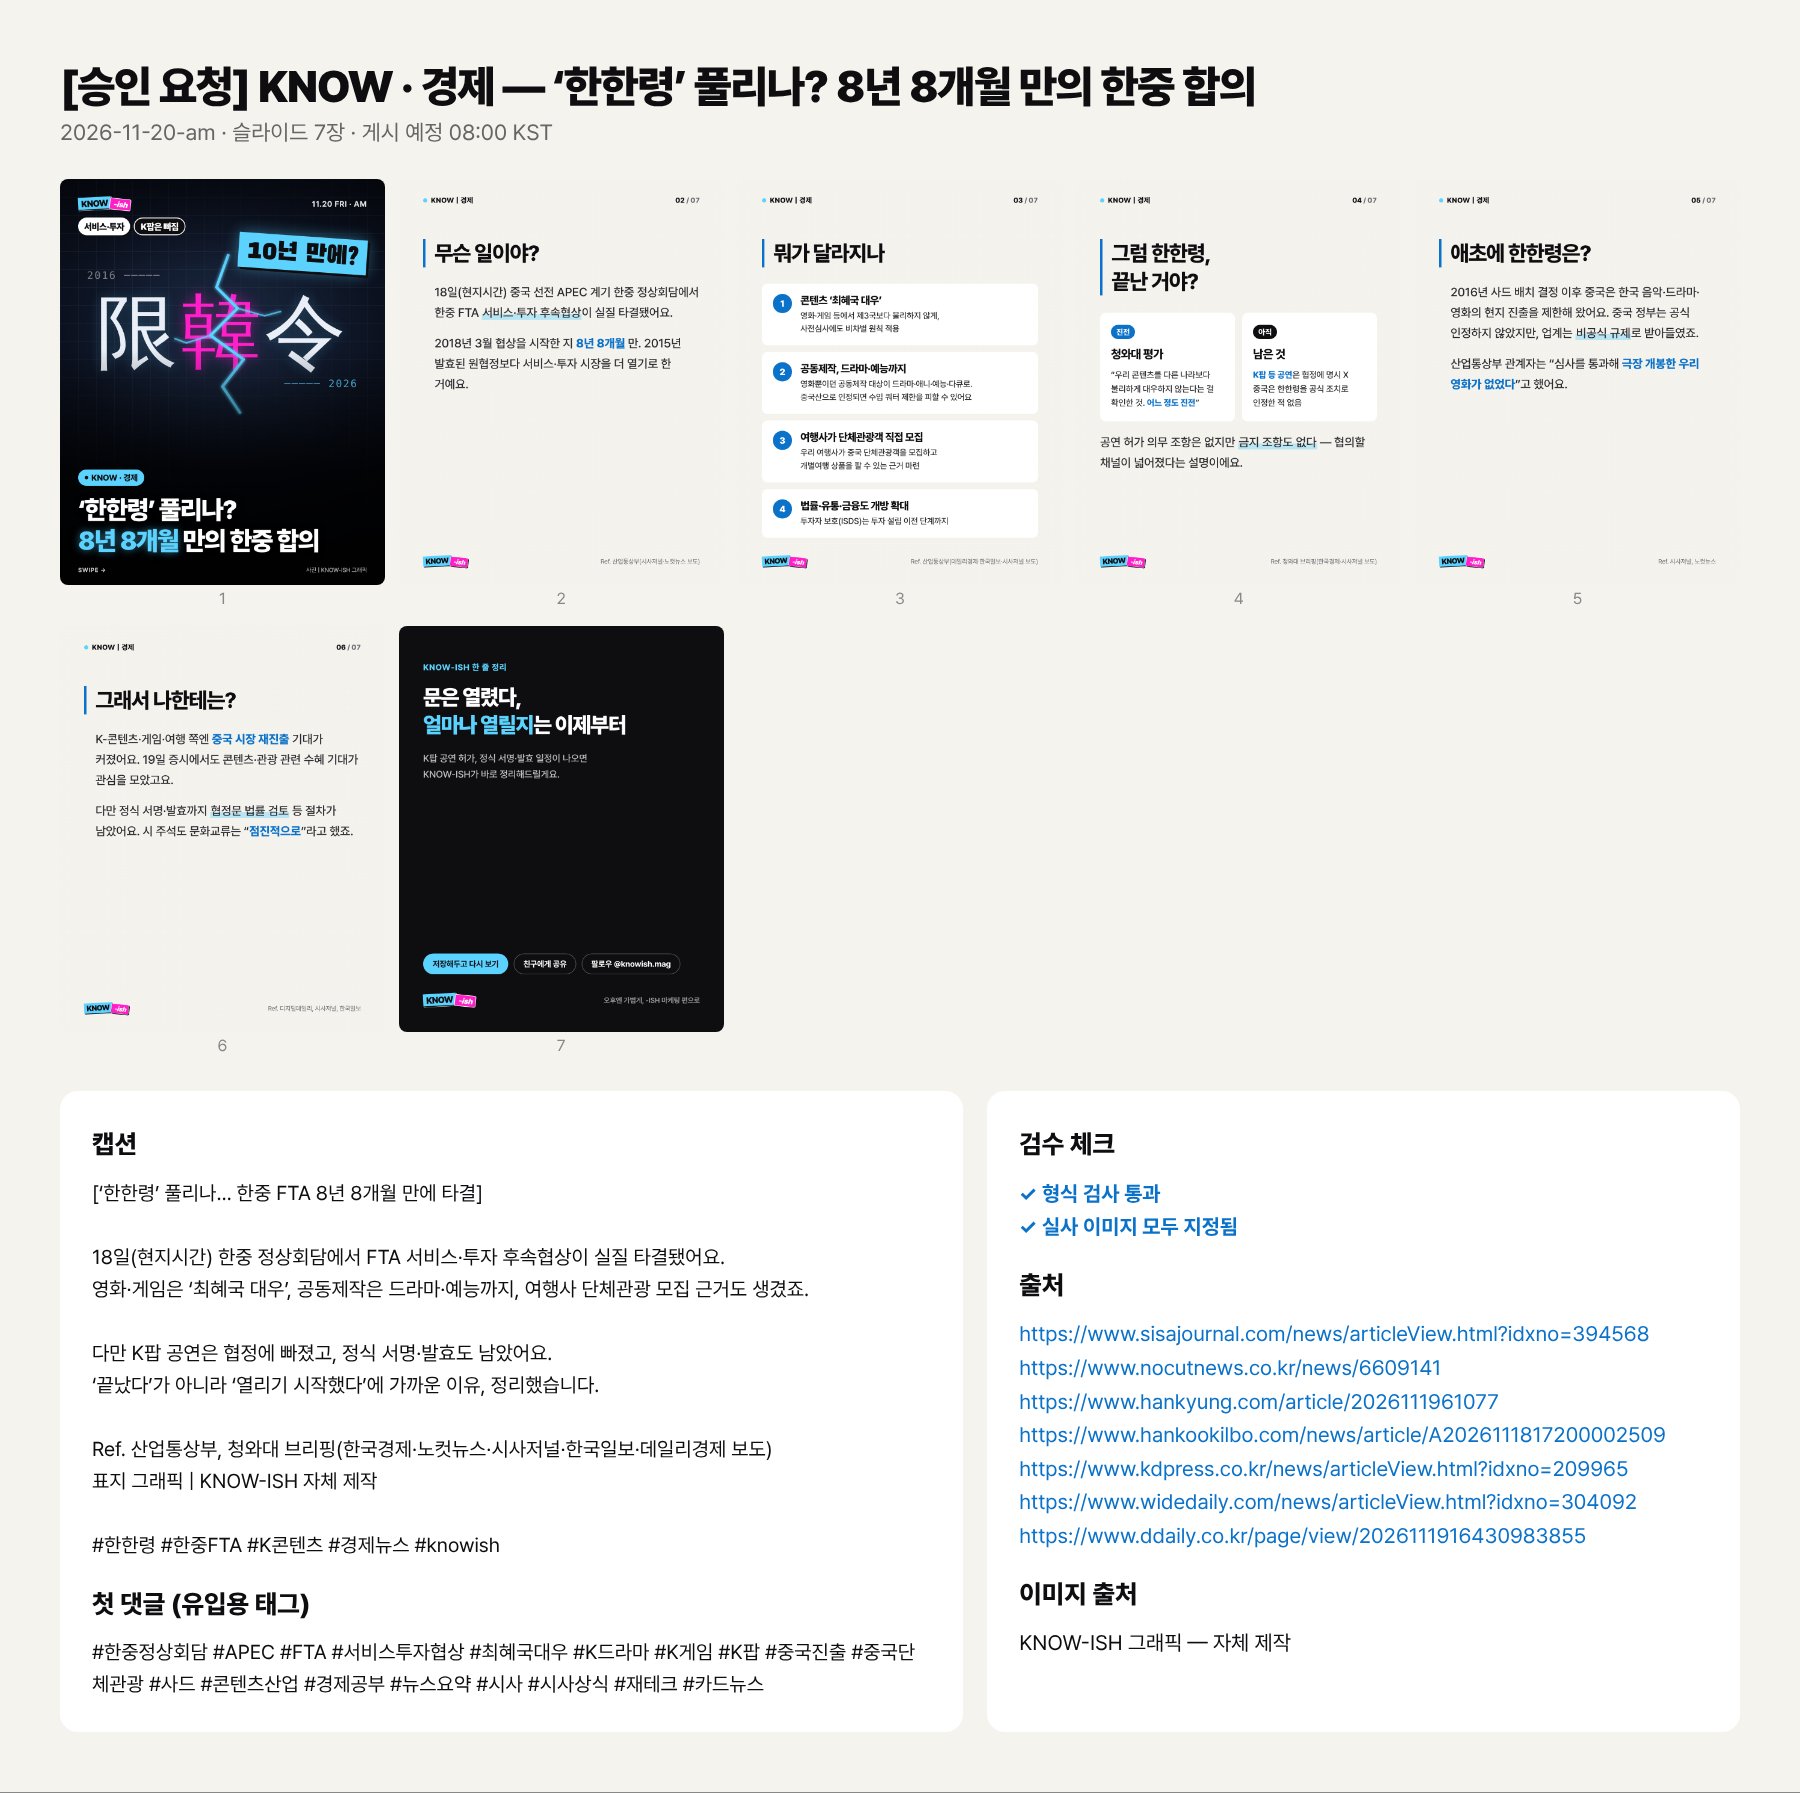
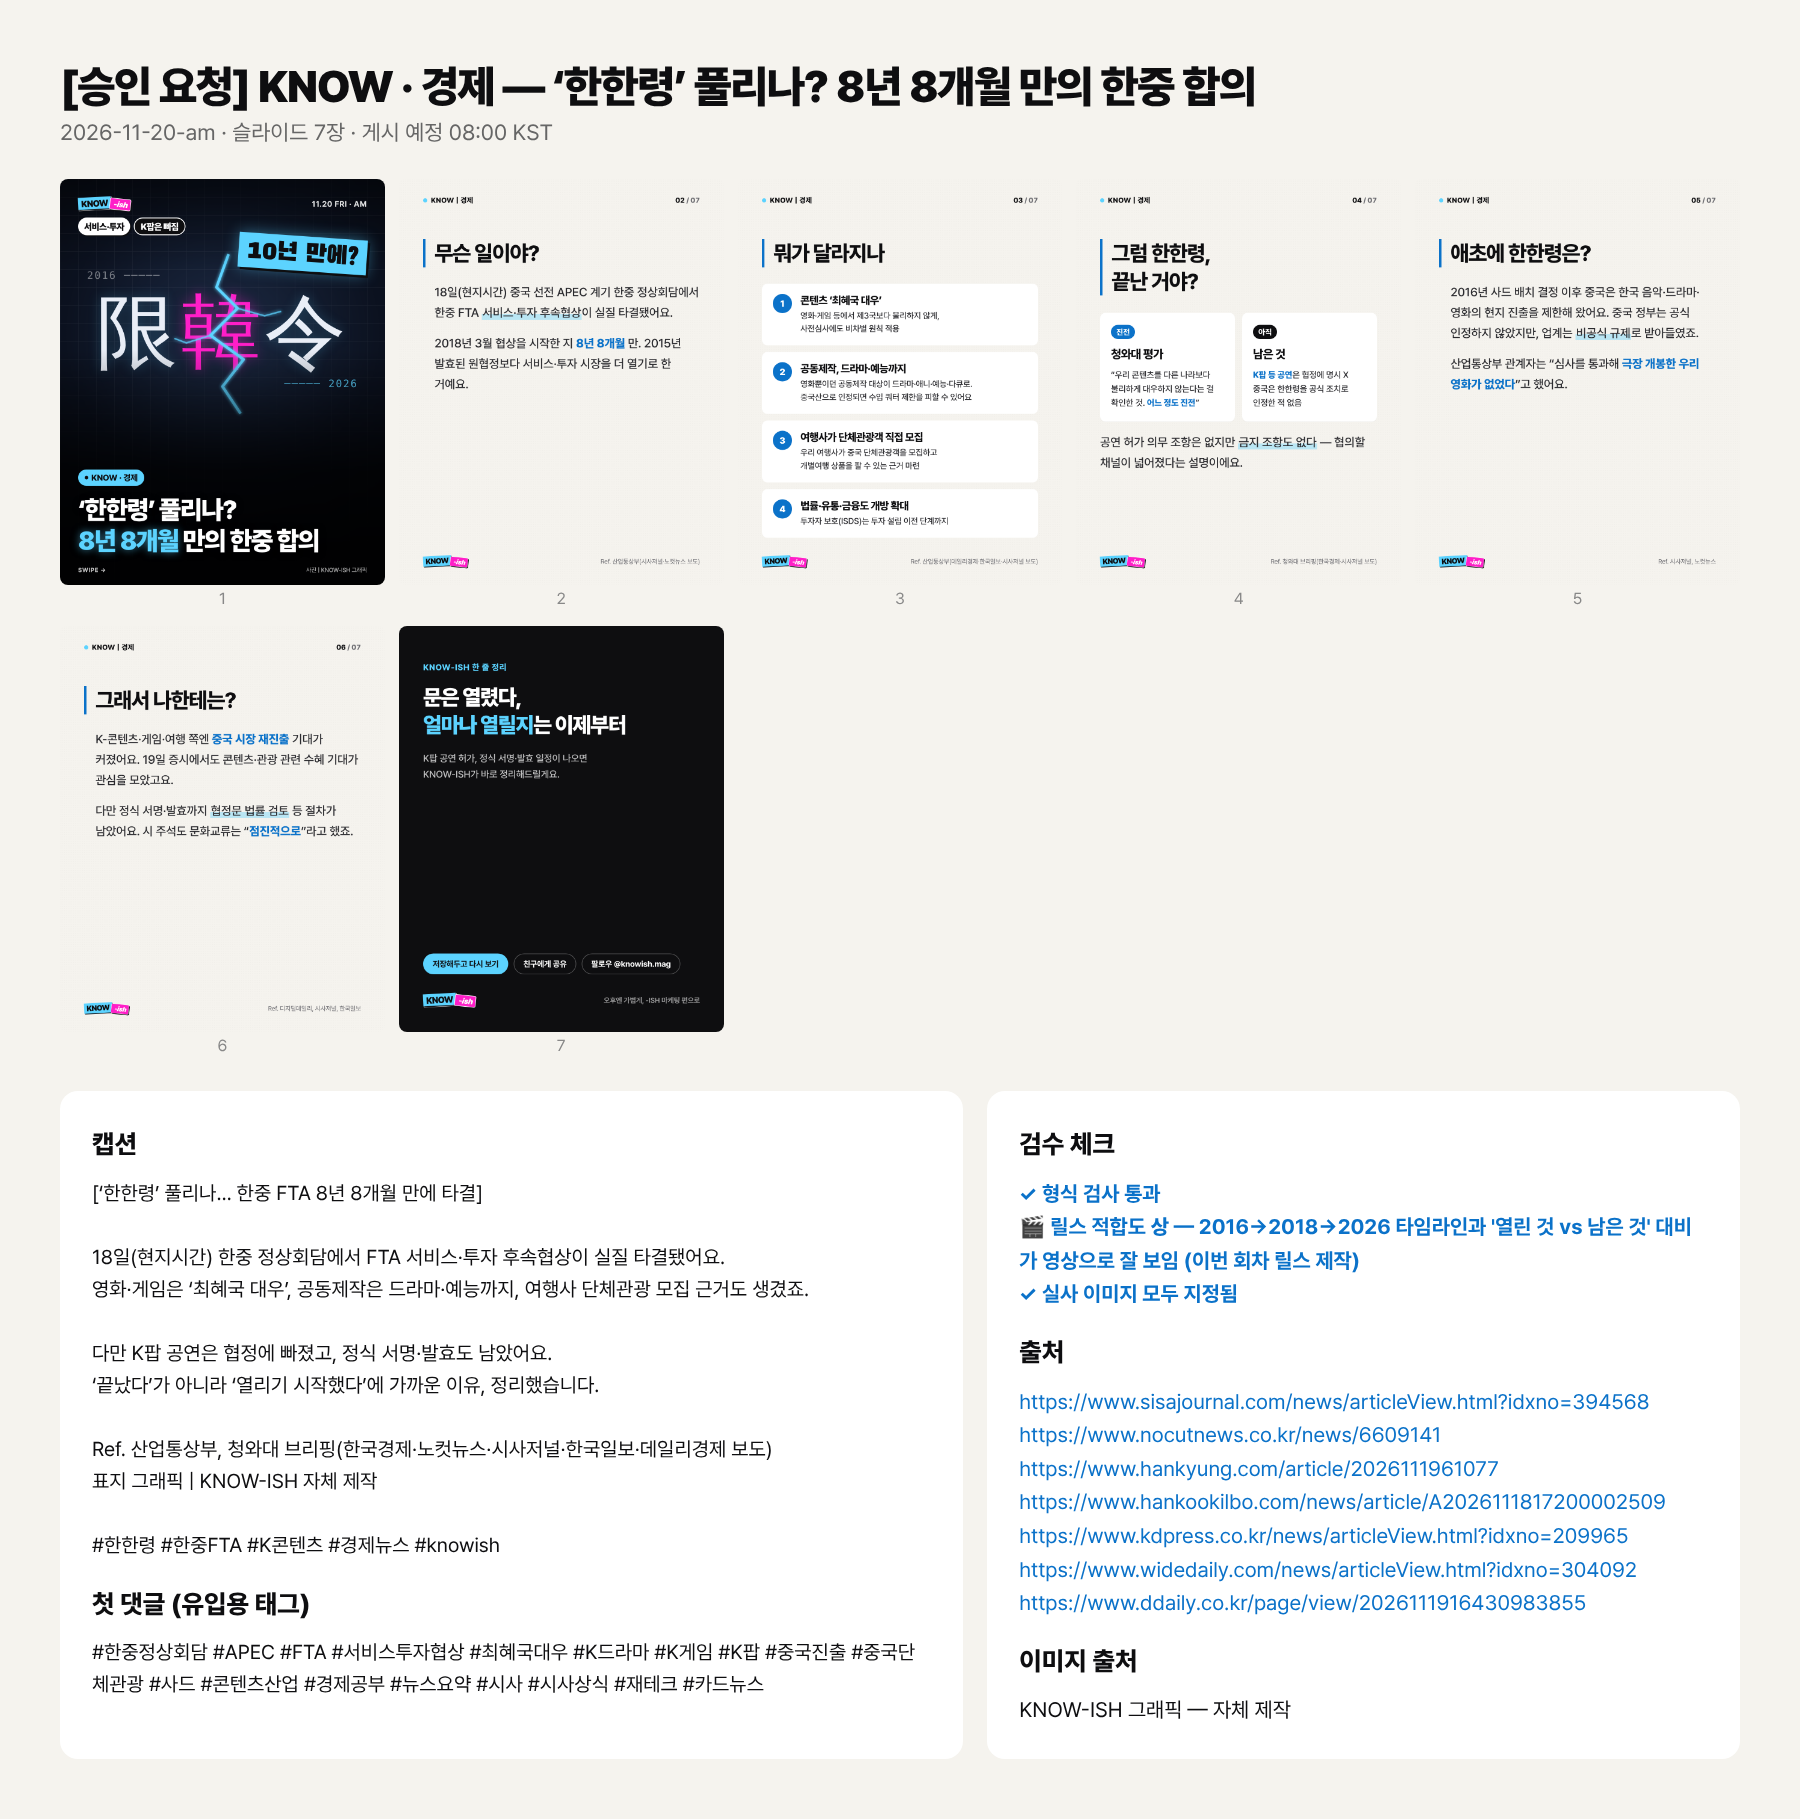
릴스 하루 1개 규칙: 적합도(상/중/하) 판단, 오전 상일 때·아니면 오후 제작, 그리드 숨김·시간 분리 안내, 캡션 연결 문구
Claude-Session: https://claude.ai/code/session_019qCDgtKUUxWTJuWU3cPXKC

diff --git a/onoff/AUTOMATION.md b/onoff/AUTOMATION.md
@@ -112,10 +112,30 @@ node src/build.mjs posts/<id>
 - 출력의 `problems` 가 비어 있지 않으면 원고를 고치고 다시 빌드한다(이미지 미지정은 예외).
 - `review.png` 를 직접 열어 보고, 글자 넘침·겹침·오타가 있으면 고친다.
 
+## 5-1. 릴스 (하루 1개)
+릴스는 **하루에 한 회차만** 만든다. 카드뉴스는 매 회차 그대로.
+
+1. **적합도 판단** — 매 회차 `content.json` 에 넣는다:
+   `"reel": {"fit": "상|중|하", "why": "한 줄 이유", "make": true|false}`
+   - 상: 숫자·차트·타임라인·반전·비교처럼 **움직임으로 보여주기 좋은** 주제
+   - 중: 사진·말풍선으로 풀 수 있는 주제
+   - 하: 설명·인용 위주라 영상 이점이 적은 주제
+2. **누가 만드나**
+   - 오전(KNOW): fit 이 **상**이면 만든다(`make: true`). 아니면 오후로 넘긴다.
+   - 오후(-ISH): 같은 날 오전 게시물(`posts/<오늘>-am`)에 릴스가 없으면 fit 이 상·중일 때 만든다. 하면 건너뛰고 이유를 알린다.
+   - 사용자가 "릴스도"/"릴스는 빼고"라고 하면 그대로.
+3. **만들기** — `reels/<게시물 id>/reel.mjs` 를 쓴다. 기준 예시: `reels/2026-11-20-am/reel.mjs`(타임라인·카드형), `reels/2026-11-19-kospi/reel.mjs`(차트형).
+   - 1080×1920, 15~21초, 장면 4~5개: 훅(표지 문구·칩·스티커) → 핵심 시각화(차트/타임라인/사진) → 이유·내용 → 반전·남은 것 → 한 줄 정리.
+   - 숫자·사실은 카드뉴스 `sources` 와 같은 것만. 근사치로 그린 그림(예: 세 지점을 이은 흐름도)은 화면에 그렇다고 적는다.
+   - 중요한 글자는 y 260~1500 안에(아래쪽은 인스타 캡션에 가림). 무음(음악은 사용자가 앱에서).
+   - 렌더: `node src/reel-render.mjs reels/<id>/reel.mjs 30` → `reel.mp4`, `poster.png`. 프레임 몇 장을 뽑아 직접 확인.
+   - `reels/<id>/caption.txt` = 카드뉴스 캡션 + 첫 줄 아래에 `📌 자세한 내용은 프로필 카드뉴스에서` 한 줄. `comment.txt` = 카드뉴스 commentTags + `#릴스`.
+4. **업로드 안내** (승인 후 패키지와 함께): 카드뉴스와 **시간을 나눠** 올린다(오전 회차 릴스 12:30, 오후 회차 릴스 21:00), 업로드 시 **"프로필 그리드에 표시" 끄기**(릴스 탭에만), 음악 추가, 커버는 poster.png.
+
 ## 6. 저장 & 승인 요청
 1. 이 세션의 작업 브랜치에 `onoff/posts/<id>/` 를 커밋하고 push 한다.
 2. 사용자에게 `review.png`, 표지(`slides/01.png`)를 보내고(SendUserFile, status `proactive`), 푸시 알림을 보낸다.
-3. 메시지: 주제 한 줄, 왜 골랐는지 한 줄, 확인이 필요한 점(이미지 미지정, 애매한 수치 등). 끝에 **"승인 / 수정할 내용"** 을 묻는다.
+3. 메시지: 주제 한 줄, 왜 골랐는지 한 줄, **릴스 적합도(상/중/하)와 이번 회차 릴스 제작 여부**, 확인이 필요한 점(이미지 미지정, 애매한 수치 등). 릴스를 만들었으면 `reel.mp4` 도 같이 보낸다. 끝에 **"승인 / 수정할 내용"** 을 묻는다.
 4. **승인 전에는 절대 게시하지 않는다.**
 
 ## 7. 승인 후 게시

diff --git a/.claude/skills/knowish/SKILL.md b/.claude/skills/knowish/SKILL.md
@@ -37,9 +37,13 @@ argument-hint: <주제나 링크> [KNOW|-ISH] [장수] [톤·요청사항]
 3. `node src/build.mjs posts/<id>` → `problems` 0개가 될 때까지 고친다.
 4. `review.png` 와 슬라이드를 직접 보고 글자 넘침·겹침·오타를 고친다.
 
+## 3-1. 릴스
+- 런북 '5-1. 릴스' 기준으로 적합도(상/중/하)를 매기고 `content.json` 의 `reel` 에 적는다.
+- 요청형은 사용자가 "릴스도" 라고 하거나 적합도가 **상**이면 만든다(오늘 정기 회차 릴스가 이미 있으면 먼저 물어본다).
+
 ## 4. 승인 요청
 - 커밋·push 후 `review.png` 와 표지(`slides/01.png`)를 보낸다.
-- 메시지: 주제 한 줄, 선택한 시리즈와 이유, 각 장 요약(한 줄씩), 확인이 필요한 점(매체 간 다른 수치, 사진 미지정 등), 끝에 "승인 / 수정할 내용".
+- 메시지: 주제 한 줄, 선택한 시리즈와 이유, 릴스 적합도·제작 여부, 각 장 요약(한 줄씩), 확인이 필요한 점(매체 간 다른 수치, 사진 미지정 등), 끝에 "승인 / 수정할 내용".
 - **승인 전에는 게시하지 않는다.**
 
 ## 5. 수정 · 승인 후

diff --git a/onoff/posts/2026-11-20-am/review.md b/onoff/posts/2026-11-20-am/review.md
@@ -3,6 +3,7 @@
 - 게시물: `2026-11-20-am` (슬라이드 7장, 게시 예정 08:00 KST)
 - 형식 검사: 통과
 - 실사 이미지: 모두 지정
+- 릴스: 적합도 상 — 2016→2018→2026 타임라인과 '열린 것 vs 남은 것' 대비가 영상으로 잘 보임 (제작)
 
 ## 캡션
 ```
